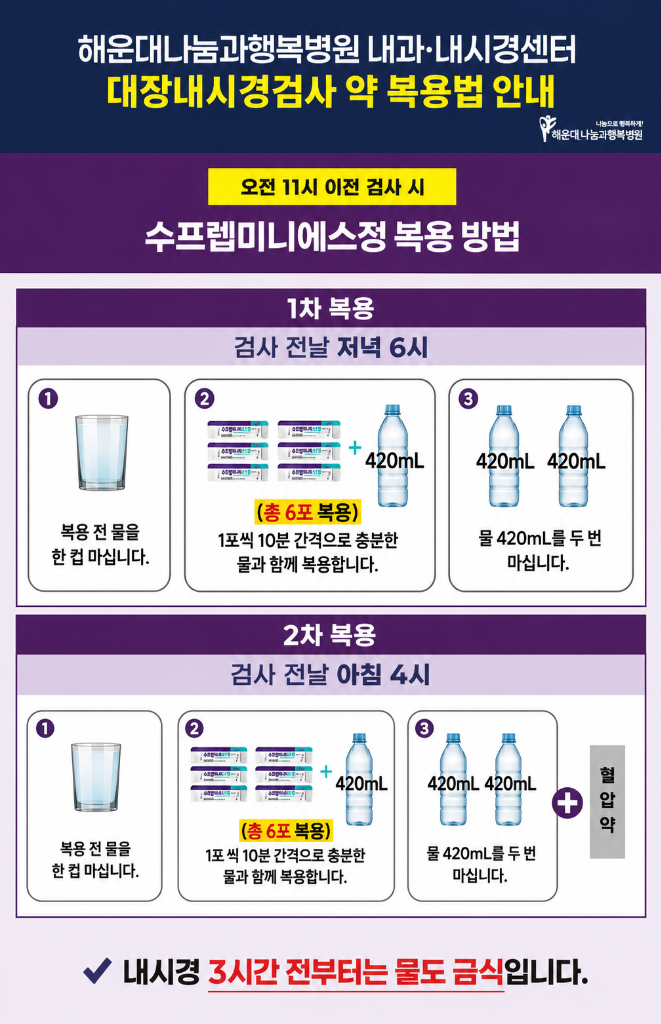
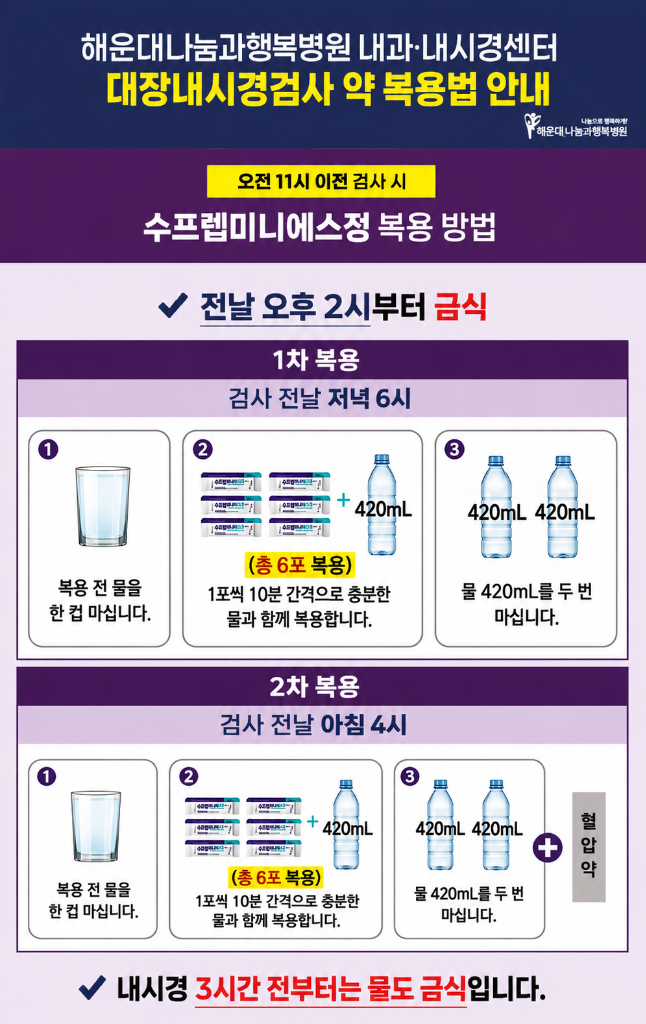
Update screen 6 with the correct fasting instruction image

diff --git a/index.html b/index.html
@@ -22,16 +22,16 @@
             <!-- Wrapper to keep overlays aligned with canvas -->
             <div id="canvas-wrapper">
                 <canvas id="pdf-canvas"></canvas>
-                <img id="page1-img" class="hidden" src="page1.jpg?v=34" style="width: 100%; height: auto; display: block;" alt="Page 1">
-                <img id="page2-img" class="hidden" src="page2.png?v=34" style="width: 100%; height: auto; display: block;" alt="Page 2">
-                <img id="page4-img" class="hidden" src="page4.png?v=34" style="width: 100%; height: auto; display: block;" alt="Page 4">
-                <img id="page5-img" class="hidden" src="page5.png?v=34" style="width: 100%; height: auto; display: block;" alt="Page 5">
-                <img id="page6-img" class="hidden" src="page6.png?v=34" style="width: 100%; height: auto; display: block;" alt="Page 6">
-                <img id="page8-img" class="hidden" src="page8.png?v=34" style="width: 100%; height: auto; display: block;" alt="Page 8">
-                <img id="page9-img" class="hidden" src="page9.png?v=34" style="width: 100%; height: auto; display: block;" alt="Page 9">
-                <img id="page10-img" class="hidden" src="page10.png?v=34" style="width: 100%; height: auto; display: block;" alt="Page 10">
-                <img id="page12-img" class="hidden" src="page12.png?v=34" style="width: 100%; height: auto; display: block;" alt="Page 12">
-                <img id="page13-img" class="hidden" src="page13.png?v=34" style="width: 100%; height: auto; display: block;" alt="Page 13">
+                <img id="page1-img" class="hidden" src="page1.jpg?v=35" style="width: 100%; height: auto; display: block;" alt="Page 1">
+                <img id="page2-img" class="hidden" src="page2.png?v=35" style="width: 100%; height: auto; display: block;" alt="Page 2">
+                <img id="page4-img" class="hidden" src="page4.png?v=35" style="width: 100%; height: auto; display: block;" alt="Page 4">
+                <img id="page5-img" class="hidden" src="page5.png?v=35" style="width: 100%; height: auto; display: block;" alt="Page 5">
+                <img id="page6-img" class="hidden" src="page6.png?v=35" style="width: 100%; height: auto; display: block;" alt="Page 6">
+                <img id="page8-img" class="hidden" src="page8.png?v=35" style="width: 100%; height: auto; display: block;" alt="Page 8">
+                <img id="page9-img" class="hidden" src="page9.png?v=35" style="width: 100%; height: auto; display: block;" alt="Page 9">
+                <img id="page10-img" class="hidden" src="page10.png?v=35" style="width: 100%; height: auto; display: block;" alt="Page 10">
+                <img id="page12-img" class="hidden" src="page12.png?v=35" style="width: 100%; height: auto; display: block;" alt="Page 12">
+                <img id="page13-img" class="hidden" src="page13.png?v=35" style="width: 100%; height: auto; display: block;" alt="Page 13">
                 
                 <!-- Overlay for Screen 1 & 2: Click anywhere to go next -->
                 <div id="full-overlay" class="overlay hidden" onclick="goNext()">

diff --git a/fix6_update.js b/fix6_update.js
@@ -1,0 +1,13 @@
+const fs = require('fs');
+
+// Copy image
+fs.copyFileSync('C:\\Users\\LG\\.gemini\\antigravity\\brain\\9099f388-8581-4fa1-b388-668740ae9b49\\media__1784471375771.png', 'C:\\Users\\LG\\Desktop\\PO\\page6.png');
+
+// Update index.html
+let html = fs.readFileSync('C:\\Users\\LG\\Desktop\\PO\\index.html', 'utf8');
+html = html.replaceAll('v=34', 'v=35');
+fs.writeFileSync('C:\\Users\\LG\\Desktop\\PO\\index.html', html, 'utf8');
+
+// Update app.js (no change to logic, just rewriting just in case)
+let app = fs.readFileSync('C:\\Users\\LG\\Desktop\\PO\\app.js', 'utf8');
+fs.writeFileSync('C:\\Users\\LG\\Desktop\\PO\\app.js', app, 'utf8');